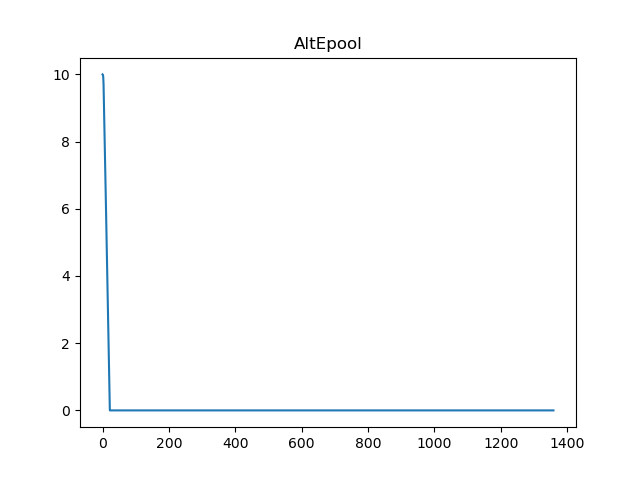
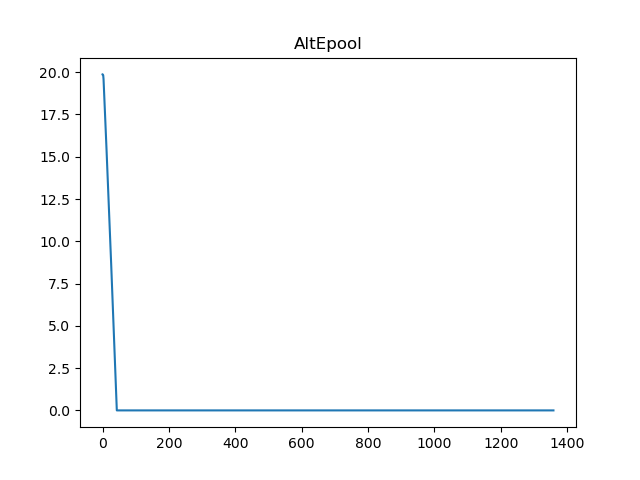
Backup save

diff --git a/workinprogress.py b/workinprogress.py
@@ -4,14 +4,18 @@ Created on Fri Mar 26 13:27:41 2021
 
 @author: Lara
 """
-
+import os
 import numpy as np
 import scipy
 from scipy import optimize
 from scipy.integrate import odeint
+from scipy import stats
 import pandas as pd
-import matplotlib as plt
+import matplotlib.pyplot as plt
 from Microbe import Fermenters, Hydrotrophes, Fe, Acetoclast, Homo # Importiert Funktionen aus dem Skript "Microbe"
+
+
+import time
 
 # variablen die optimiert werden
 changeables_order = ['Vmax_Ferm', 
@@ -89,13 +93,13 @@ def load_data(specimen_index):
     
     #umwandeln der daten in dict für "fit my model"                        
     Realdata = {'measured_time': data_array[:,day_column_index],
-                'CO2':data_array[:,CH4_column_index],
-                'CH4':data_array[:,CO2_column_index]}
+                'CH4':data_array[:,CH4_column_index],
+                'CO2':data_array[:,CO2_column_index]}
 
     return Realdata
 
 
-def Cdec(time, system_state_array, model_parameter_dict):# fehlen hier die parameter? 
+def Cdec(t, system_state_array, model_parameter_dict):# fehlen hier die parameter? 
     system_dict = dict(zip(pool_order, system_state_array))
     
     C_pool = system_dict['C_pool']
@@ -174,6 +178,8 @@ def Cdec(time, system_state_array, model_parameter_dict):# fehlen hier die param
     deltaAcetate_Homo  = - deltaH2_Homo * 4 # aus 4 mol H2 wird ein mol Acetate
 
     
+  
+    
     m_C = 12.01*1e-3 # molar mass of carbon
     changes_dict                    = dict()
     changes_dict['C_pool']          = -min(C_pool,-deltaCpool) +  (Tot_Hydro + Tot_Ac + Tot_Fe + Tot_Ferm + Tot_Homo)/m_C
@@ -201,6 +207,8 @@ def Cdec(time, system_state_array, model_parameter_dict):# fehlen hier die param
     
     changes_to_system_list = [changes_dict[key] for key in pool_order]
     changes_to_system_state_array = np.array(changes_to_system_list)
+    
+    
     return changes_to_system_state_array
 
 
@@ -210,11 +218,16 @@ def predictor(t_out, initial_pool_values_dict, model_parameters_dict):
     initial_pool_values_list = [initial_pool_values_dict[key] for key in pool_order] # diese zeile sorgt für die richtige reihenfolge für Cdec
     initial_pool_values_array = np.array(initial_pool_values_list)
     
+    
+    #odeint_start = time.time()
     pool_values_at_time_points = odeint(Cdec, 
                                         initial_pool_values_array, 
                                         t_out, 
                                         args = (model_parameters_dict,),
                                         tfirst = True)
+    #odeint_time = time.time() - odeint_start
+    #print('odeint time', odeint_time)
+    
     pool_values_at_time_points = np.transpose(pool_values_at_time_points)
     # VOR dem transponieren ist der output von odeint ein 2D array mit
     # einer Zeile für jeden Zeitpunkt,
@@ -228,7 +241,8 @@ def predictor(t_out, initial_pool_values_dict, model_parameters_dict):
 
 
 def least_squares_error(changeables_array, fixed_quantities_dict, measured_data_dict):  
-    
+    print('')
+   # print('ls call')
     # in den folgenden beiden blöcken werden die variablen und fixen
     # parameter neu geordnet, weil predictor() die parameter getrennt haben 
     # will, je nach dem, ob sie initiale pool-pegel sind oder andere modell-parameter
@@ -252,10 +266,12 @@ def least_squares_error(changeables_array, fixed_quantities_dict, measured_data_
         else:
             model_parameters_dict[key] = fixed_quantities_dict[key]
     
+    #predictor_start = time.time()
     y_predicted_dict = predictor(measured_data_dict['measured_time'],
                                 initial_pool_dict, 
                                 model_parameters_dict)
-    
+   # predictor_time = time.time() - predictor_start
+    #print('predictor time', predictor_time)
     CO2_predicted = y_predicted_dict['CO2_pool']
     CH4_predicted = y_predicted_dict['CH4_pool']
     
@@ -306,33 +322,42 @@ def fit_my_model(Realdata):
 
     
     # unterkringelt (zu optimierende parameter)
-    changeables_initial_guess_dict = dict()
-    changeables_initial_guess_dict['Vmax_Ferm'] = 0.1  # Vmax Ferm 0.01  roden2003competition wert ist 17 !
-    changeables_initial_guess_dict['w_Ferm']    = 0.05    # w Ferm 0.04
-    changeables_initial_guess_dict['Kmb_Ferm']  = 10     # Kmb ferm, for inverse M-M Biomass 10
-    changeables_initial_guess_dict['Kmh_Ferm']  = 10      # Kmh ferm, for hemmung of fermenters by acetate 10
-    changeables_initial_guess_dict['Vmax_Fe']   = 0.3    # Vmax Fe 0.9
-    changeables_initial_guess_dict['w_Fe']      = 0.013    # w Fe 0.02
-    changeables_initial_guess_dict['Stoch_Fe']  = 4        # Stoch AltE 7  #  philben2020anaerobic nehmen einen Wert von 4 für Fe3 an
-    changeables_initial_guess_dict['Kmb_Fe' ]   = 10      # Kmb Fe 10            
-    changeables_initial_guess_dict['Vmax_Ac']   = 0.207    # Vmax Ac 0.15   roden2003competition wert ist 15 !
-    changeables_initial_guess_dict['w_Ac']      = 0.04    # w Ac 0.03
-    changeables_initial_guess_dict['Kmb_Ac']    = 10     # Kmb Ac 10
-    changeables_initial_guess_dict['Vmax_Homo'] = 0.133   # Vmax Homo 0.05
-    changeables_initial_guess_dict['w_Homo']    = 0.049    # w Homo 0.05
-    changeables_initial_guess_dict['Vmax_Hydro']= 0.086    # Vmax Hydro 0.05
-    changeables_initial_guess_dict['w_Hydro']   = 0.024    # w Hydro 0.02
-    changeables_initial_guess_dict['Kmb_Hydro'] = 10
-    changeables_initial_guess_dict['Sensenmann']= 0.0000833   # Sensenmann 0.0001   delattre2020thermodynamic nimmt 8.33*10^-4 h^-1für alle mikroben
-    changeables_initial_guess_dict['Fe_pool']   = 5.75
+    changeables_initial_guess_dict = dict() # erst startwert, dann lower, dann upper bound
+    changeables_initial_guess_dict['Vmax_Ferm'] = (0.1 ,    0.01,   0.11)     # Vmax Ferm 0.01  roden2003competition wert ist 17 !
+    changeables_initial_guess_dict['w_Ferm']    = (0.05,    0.03,   0.05)     # w Ferm 0.04
+    changeables_initial_guess_dict['Kmb_Ferm']  = (10,      1,      10)     # Kmb ferm, for inverse M-M Biomass 10
+    changeables_initial_guess_dict['Kmh_Ferm']  = (5,      1,      10)       # Kmh ferm, for hemmung of fermenters by acetate 10
+    changeables_initial_guess_dict['Vmax_Fe']   = (0.6 ,    0.029,  1.9)     # Vmax Fe 0.9
+    changeables_initial_guess_dict['w_Fe']      = (0.013,   0.01,   0.05)    # w Fe 0.02
+    changeables_initial_guess_dict['Stoch_Fe']  = (4 ,      1,      8 )       # Stoch AltE 7  #  philben2020anaerobic nehmen einen Wert von 4 für Fe3 an
+    changeables_initial_guess_dict['Kmb_Fe' ]   = (10  ,    1,      10)     # Kmb Fe 10            
+    changeables_initial_guess_dict['Vmax_Ac']   = (0.174 ,  0.05,   0.39)   # Vmax Ac 0.15   roden2003competition wert ist 15 !
+    changeables_initial_guess_dict['w_Ac']      = (0.04,    0.01,   0.05)    # w Ac 0.03
+    changeables_initial_guess_dict['Kmb_Ac']    = (10,      1,      10)      # Kmb Ac 10
+    changeables_initial_guess_dict['Vmax_Homo'] = (0.27,   0.005,  1)   # Vmax Homo 0.05
+    changeables_initial_guess_dict['w_Homo']    = (0.049,   0.01,   0.05)  # w Homo 0.05
+    changeables_initial_guess_dict['Vmax_Hydro']= (0.076,   0.03,   0.2)    # Vmax Hydro 0.05
+    changeables_initial_guess_dict['w_Hydro']   = (0.024,   0.01,   0.05)  # w Hydro 0.02
+    changeables_initial_guess_dict['Kmb_Hydro'] = (10,      1,      10)
+    changeables_initial_guess_dict['Sensenmann']= (0.0000833,-0.000000001, 0.0000844)   # Sensenmann 0.0001   delattre2020thermodynamic nimmt 8.33*10^-4 h^-1für alle mikroben
+    changeables_initial_guess_dict['Fe_pool']   = (6.48,    1,      100)
     
     
-    changeables_initial_guess_list = [changeables_initial_guess_dict[key] for key in changeables_order]
+
+    
+    changeables_initial_guess_list = [changeables_initial_guess_dict[key][0] for key in changeables_order]
+    changeables_initial_guess_lower = [changeables_initial_guess_dict[key][1] for key in changeables_order]
+    changeables_initial_guess_upper = [changeables_initial_guess_dict[key][2] for key in changeables_order]
+    changeables_initial_guess_bounds = list(zip(changeables_initial_guess_lower, changeables_initial_guess_upper))
     changeables_initial_guess_array = np.array(changeables_initial_guess_list)
-    changeables_optimal_array = scipy.optimize.minimize(least_squares_error, 
+    print('start min')
+    optimization_result = scipy.optimize.minimize(least_squares_error, 
                                                  changeables_initial_guess_array,
-                                                 args = (fixed_quantities_dict, Realdata))
-    
+                                                 args = (fixed_quantities_dict, Realdata),
+                                                 bounds= changeables_initial_guess_bounds,
+                                                 options = {'maxiter':200000,
+                                                            'disp':True})
+    changeables_optimal_array = optimization_result.x
     changeables_optimal_dict = dict(zip(changeables_order,changeables_optimal_array))
     
     
@@ -350,46 +375,59 @@ def fit_my_model(Realdata):
         else:
             optimal_model_parameters_dict[key] = fixed_quantities_dict[key]
             
+    print(optimal_model_parameters_dict)
+            
     return initial_pool_dict, optimal_model_parameters_dict
     
 
 # plots
 def plot_my_data(specimen_index): 
-    
     Realdata = load_data(specimen_index)
-    
-    optimal_model_parameters_dict, initial_pool_dict =  fit_my_model(Realdata)
+    initial_pool_dict, optimal_model_parameters_dict =  fit_my_model(Realdata)
+    print('end min')
+    last_day = int(max(Realdata['measured_time']))
+    days_for_plot = np.linspace(0,last_day, num = last_day+1)
+    pool_value_dict = predictor(days_for_plot, initial_pool_dict, optimal_model_parameters_dict) 
 
-    pool_value_dict = predictor(np.linespace(0,max(Realdata['measured_time'])), initial_pool_dict, optimal_model_parameters_dict) 
-
-    data_len = len(Realdata)
-    for x, a, col in zip([0,data_len],["CH4","CO2"], ["r", "b"]):
+    for a, col in zip(["CH4","CO2"], ["r", "b"]):
         plt.figure()
-        plt.plot(xlist,[ydata[i] for i in range(x,data_len+x)],col+"o", label = "Observed")
-        plt.plot(xlist,[CCH4CO2optList[i] for i in range(x,data_len+x)],"k-",label = "Predicted")
+        plt.plot(Realdata['measured_time'], Realdata[a], col+"o", label = "Observed")
+        plt.plot(days_for_plot, pool_value_dict[a+'_pool'], "k-",label = "Predicted")
         plt.ylabel(a)
         plt.legend()
-        save_path = os.path.join('C:/Users/Lara/Desktop/simple model/Figs', a +'_'+str(m)+'.png')
+        
+        save_path = os.path.join('C:/Users/Lara/Desktop/simple model/Figs', a +'_fit_' +str(specimen_index)+'.png')
         plt.savefig(save_path)
-    _ ,_ , R2, _ , _ = stats.linregress(CCH4CO2optList, y=ydata)
-    print("R2 is", R2)
+        
+        _ ,_ , R2, _ , _ = stats.linregress(Realdata[a], y=pool_value_dict[a+'_pool'][Realdata['measured_time'].astype(int)])
+        print("R2 for "+a+" is", R2)
+
+    # TODO: measured_time counts from 0 or 1?
 
 
 
-    for pool_name in pool_value_dict: 
+    for pool_name, pool_curve in pool_value_dict.items(): 
         plt.figure()
-        plt.plot(np.linespace(0,max(Realdata['measured_time'])), pool_value_dict[pool_name], label= pool_name)
+        plt.plot(days_for_plot, pool_curve, label= pool_name)
         plt.title(pool_name)
-        plt.savefig('C:/Users/Lara/Desktop/simple model/Figs/'+ pool_name + '.png') 
+        plt.savefig('C:/Users/Lara/Desktop/simple model/Figs/'+ pool_name +'_'+str(specimen_index)+ '.png') 
         #plt.ylabel('mg Mikrobielles C pro g dw')
+        
+    
+
+    for pool_name, pool_curve in pool_value_dict.items(): 
+        plt.plot(days_for_plot, pool_curve, label= pool_name)
+        plt.title(pool_name)
+        plt.savefig('C:/Users/Lara/Desktop/simple model/Figs/'+ pool_name +'_'+str(specimen_index)+ '.png') 
 
 
+plot_my_data(0)
 
 #%%
 
-#fit_my_model([0])
-testdata = load_data(0)
 
+testdata = load_data(0)
+initial_pool_dict, optimal_model_parameters_dict = fit_my_model(testdata)
 #%%
 
 

diff --git a/multifit2.py b/multifit2.py
@@ -55,11 +55,11 @@ for m in Data1:#and2and3and4and5and6and7and8and9:
            0.0000833,   # Sensenmann 0.0001   delattre2020thermodynamic nimmt 8.33*10^-4 h^-1für alle mikroben
            4,        # Stoch AltE 7  #  philben2020anaerobic nehmen einen Wert von 4 für Fe3 an
            5.75,      # AltE pool init 7
-           10,      # Kmb ferm, for inverse M-M Biomass 10
-           10,      # Kmh ferm, for hemmung of fermenters by acetate 10
-           10,      # Kmb AltE 10
-           10,      # Kmb auto 10
-           10]      # Kmb hydro 10
+           20,      # Kmb ferm, for inverse M-M Biomass 10
+           20,      # Kmh ferm, for hemmung of fermenters by acetate 10
+           20,      # Kmb AltE 10
+           20,      # Kmb ace 10
+           20]      # Kmb hydro 10
     
     bounds = [[0.01, 0.11],     # Vmax Ferm
               [0.029, 1.9],     # Vmax AltE
@@ -73,12 +73,12 @@ for m in Data1:#and2and3and4and5and6and7and8and9:
               [0.01, 0.05],     # w Ace
               [-0.000000001, 0.0000844],    # Sensenmann
               [1,    8],        # Stoch AltE
-              [2,   10],        # AltE pool init
-              [ 1, 10 ],        # Kmb ferm
-              [ 1, 10 ],        # Kmh ferm
-              [ 1, 10 ],        # Kmb AltE
-              [ 1, 10 ],        # Kmb Auto
-              [ 1, 10 ]]        # Kmh Hydro
+              [2,  30],        # AltE pool init
+              [ 1, 30 ],        # Kmb ferm
+              [ 1, 30 ],        # Kmh ferm
+              [ 1, 30 ],        # Kmb AltE
+              [ 1, 30 ],        # Kmb Ace
+              [ 1, 30 ]]        # Kmh Hydro
            
     optimal_parameters , _ = curve_fit(optifun, xdata, ydata, #method="dogbox",
                                        p0 = p0, 

diff --git a/SimpleIN.py b/SimpleIN.py
@@ -36,7 +36,7 @@
 #delta"Pool" :  Die Änderungen in den entsprechenden Pools
 
 
-from Microbe import Fermenters, Hydrotrophes, AltE, Acetoclast, Homo # Importiert Funktionen aus dem Skript "Microbe"
+from Microbe import Fermenters, Hydrotrophes, Fe, Acetoclast, Homo # Importiert Funktionen aus dem Skript "Microbe"
 
 
 #def Cdec(Cpool, AltEpool, M_A, M_Ferm, M_AltE, M_Hydro, M_Homo, CH4, CO2, CO2_A, Acetate, H2, CO2_Hydro, CH4_Hydro,H2_Ferm2, M_Ferm2,  Fitters):         
@@ -65,7 +65,7 @@ def Cdec(y, x, Fitters):
     
     # ALT E ALT E ALT E ALT E 
     # nur solange AltE UND Acetat vorhanden
-    deltaM_AltE, deltaAcetate_AltE, deltaAltEpool, Tot_ALtE =   AltE(M_AltE, Acetate, AltEpool, Stoch_ALtE, Vprod_max_AltE, w_AltE, Sensenmann, Kmb_AltE)
+    deltaM_AltE, deltaAcetate_AltE, deltaAltEpool, Tot_ALtE =   Fe(M_AltE, Acetate, AltEpool, Stoch_ALtE, Vprod_max_AltE, w_AltE, Sensenmann, Kmb_AltE)
     deltaCO2_Alte = - deltaAcetate_AltE * 2 # pro 1 Acetate entstehen zwei CO2
     deltaH2_Alte = - deltaAcetate_AltE #* 0 # was ist der wirkliche Wert? 
  

diff --git a/Microbe.py b/Microbe.py
@@ -32,7 +32,7 @@ def HeteroMicrobe(Biomass, Sub1, Sub2, w, Km1, Vmax, Sensenmann, Kmb, Kmh):  #AT
 
  
     ToteMicroben = Biomass * Sensenmann
-    deltaBiomass = deltaSub1Grow * m_C   - ToteMicroben #* (1-MM2)
+    deltaBiomass = deltaSub1Grow * m_C  * (1-MM2) - ToteMicroben #* (1-MM2)
     # schink1997energetics, Acetate hemmt ab 10 mikromol (für ein bestimmtes Bakterium)
     deltaSub2 = 0
  
